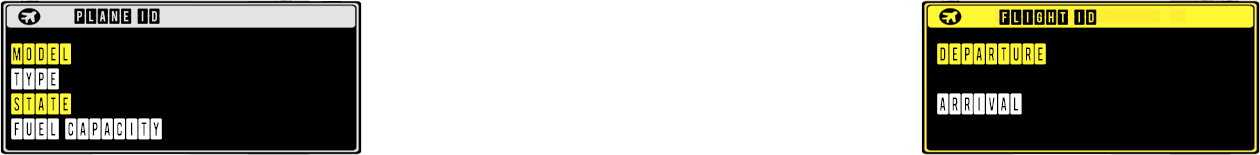
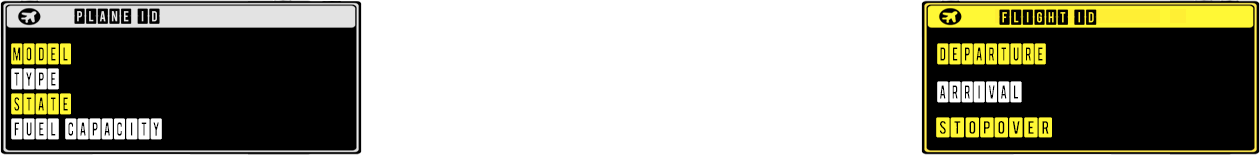
Vol

Changed region(s): [[0.7429, 0.5161, 0.8357, 0.9032]]

diff --git a/src/Airport_network/Aiport_network.cpp b/src/Airport_network/Aiport_network.cpp
@@ -175,16 +175,16 @@ void Aiport_network::init_flight(std::vector<Flight *> &ALl_flight, size_t i, sf
 void
 Aiport_network::Plane_Movement(sf::RenderWindow &window, sf::Sprite &Sprite, bool &enter_manual,
                                std::vector<Flight *> &ALl_flight,
-                               Plane p, Aiport_network a, sf::Font font2) {
+                               Plane p, Aiport_network a, sf::Font &font2, sf::Font &font1) {
     window.setFramerateLimit(60);
 
     sf::Texture Airplane_info;
     Airplane_info.loadFromFile("../Graphic_Content/Map/Info/F.png");
     sf::Sprite Sprite_Airplane_info(Airplane_info);
     Sprite_Airplane_info.setPosition(29, 23);
-    sf::Text text1, text2, text3, text4, text5, text6, text7, text8;
-    init_text(font2, text1, text2, text3, text4, text5,
-              text6, text7, text8);
+    sf::Text text1, text2, text3, text4, text5, text6, text7, text8, text9, text10;
+    init_text(font1, font2, text1, text2, text3, text4, text5,
+              text6, text7, text8, text9, text10);
 
     bool arrive(false), end(false), ok(true), newFlight(false);
     sf::Vector2f (Airport1), (Airport2);
@@ -206,12 +206,18 @@ Aiport_network::Plane_Movement(sf::RenderWindow &window, sf::Sprite &Sprite, boo
     my_Airport[0].push_back(Airport2);
 
     bool fin(false);
-    float vitesse = 0.09f;
     std::vector<float> progression;
+    std::vector<int> compt;
     float time(0.0f), temp(0.0f);
     sf::Clock clock;
     sf::Clock clock2;
-
+    if(ALl_flight[0]->get_airplane()->get_model()=="ATR72-600") {
+        text10.setColor(sf::Color::White);
+    }else if(ALl_flight[0]->get_airplane()->get_model()=="BOEING-777"){
+        text10.setColor(sf::Color::Blue);
+    }else if(ALl_flight[0]->get_airplane()->get_model()=="AIRBUS-A380"){
+        text10.setColor(sf::Color::Yellow);
+    }
     //Left
     text1.setString(std::to_string(ALl_flight[0]->get_airplane()->get_id()));
     text2.setString(ALl_flight[0]->get_airplane()->get_model());
@@ -227,38 +233,48 @@ Aiport_network::Plane_Movement(sf::RenderWindow &window, sf::Sprite &Sprite, boo
     text6.setString(ALl_flight[0]->get_flight_id());
     text7.setString(ALl_flight[0]->get_departure()->get_AirportName());
     text8.setString(ALl_flight[0]->get_arrival()->get_AirportName());
+    text9.setString(std::to_string(flight_plan[0].size() - 2));
 
     progression.push_back(0.0f);
+    compt.push_back(0);
     do {
         for (size_t f(0); f < ALl_flight.size(); f++) {
             progression[f] += clock.getElapsedTime().asSeconds() * (float) ALl_flight[f]->get_airplane()->get_speed();
             clock.restart();
             ALl_flight[f]->get_airplane()->set_plane_x(
-                    Interpolate(my_Airport[f][0], my_Airport[f][1], progression[f]).x);
+                    Interpolate(my_Airport[f][my_Airport[f].size() - 2], my_Airport[f][my_Airport[f].size() - 1],
+                                progression[f]).x);
             ALl_flight[f]->get_airplane()->set_plane_y(
-                    Interpolate(my_Airport[f][0], my_Airport[f][1], progression[f]).y);
+                    Interpolate(my_Airport[f][my_Airport[f].size() - 2], my_Airport[f][my_Airport[f].size() - 1],
+                                progression[f]).y);
             ALl_flight[f]->get_airplane()->set_Coord_plane(ALl_flight[f]->get_airplane()->get_plane_x(),
                                                            ALl_flight[f]->get_airplane()->get_plane_y());
-
+            text10.setPosition(ALl_flight[f]->get_airplane()->get_plane_x()+15,
+                               ALl_flight[f]->get_airplane()->get_plane_y());
+            if(ALl_flight[f]->get_airplane()->get_model()=="ATR72-600") {
+                text10.setColor(sf::Color::White);
+            }else if(ALl_flight[f]->get_airplane()->get_model()=="BOEING-777"){
+                text10.setColor(sf::Color::Blue);
+            }else if(ALl_flight[f]->get_airplane()->get_model()=="AIRBUS-A380"){
+                text10.setColor(sf::Color::Yellow);
+            }
             if ((ALl_flight[f]->get_airplane()->get_plane_x() ==
-                 (float) my_Airport[f][1].x &&
+                 (float) my_Airport[f][my_Airport[f].size() - 1].x &&
                  ALl_flight[f]->get_airplane()->get_plane_y() ==
-                 (float) my_Airport[f][1].y)) {
-
-                std::cout << "Avion" << f << ":" << my_Airport[f][1].x
-                          << ","
-                          << my_Airport[f][1].y << "/"
-                          << ALl_flight[f]->get_airplane()->get_plane_x() << ","
-                          << ALl_flight[f]->get_airplane()->get_plane_y() << std::endl;
+                 (float) my_Airport[f][my_Airport[f].size() - 1].y)) {
+                compt[f]++;
                 flight_plan[f][flight_plan[f].size() - 1]++;
-                if (flight_plan[f][flight_plan[f].size() - 1] < flight_plan[f].size() - 2) {
+                if (flight_plan[f][flight_plan[f].size() - 1] < flight_plan[f].size() - 2 &&
+                    compt[f] != flight_plan[f].size() - 2) {
                     init_flight(ALl_flight, f,
-                                Airport1, Airport2, flight_plan, flight_plan[f][flight_plan.size() - 1], ok);
-
-                    //flight_plan[f][flight_plan.size() - 1]++;
+                                Airport1, Airport2, flight_plan, flight_plan[f][flight_plan[f].size() - 1], ok);
+                    //my_Airport[f].push_back(Airport1);
+                    my_Airport[f].push_back(Airport2);
+                    progression[f] = 0;
 
                 }
-                if (flight_plan[f][flight_plan[f].size() - 1] == flight_plan[f].size() - 2) {
+                if (flight_plan[f][flight_plan[f].size() - 1] == flight_plan[f][flight_plan[f].size() - 2] &&
+                    compt[f] == flight_plan[f].size() - 2) {
                     std::cout << "Arivée\n";
                     arrive = true;
                     ALl_flight[f]->get_airplane()->put_state(false);
@@ -267,6 +283,8 @@ Aiport_network::Plane_Movement(sf::RenderWindow &window, sf::Sprite &Sprite, boo
                     my_Airport.erase(my_Airport.begin() + (int) f);
                     flight_plan.erase(flight_plan.begin() + (int) f);
                     progression.erase(progression.begin() + (int) f);
+                    compt.erase(compt.begin() + (int) f);
+
                     for (size_t b(0); b < p.getListPlane().size(); b++) {
                         if (ALl_flight[f]->get_airplane()->get_id() == p.getListPlane()[b]->get_id()) {
                             p.supElement_ListPlane((int) b);
@@ -274,15 +292,19 @@ Aiport_network::Plane_Movement(sf::RenderWindow &window, sf::Sprite &Sprite, boo
                     }
                 }
             } else {
-                if (my_Airport[f][flight_plan.size() - 1].x >
-                    my_Airport[f][flight_plan.size()].x) {
+                if (my_Airport[f][flight_plan[f].size() - 1].x >
+                    my_Airport[f][flight_plan[f].size()].x) {
                     ALl_flight[f]->get_airplane()->set_Angle(
-                            (float) angle(my_Airport[f][0].x, my_Airport[f][0].y, my_Airport[f][1].x,
-                                          my_Airport[f][1].y) + 180.0f);
+                            (float) angle(my_Airport[f][my_Airport[f].size() - 2].x,
+                                          my_Airport[f][my_Airport[f].size() - 2].y,
+                                          my_Airport[f][my_Airport[f].size() - 1].x,
+                                          my_Airport[f][my_Airport[f].size() - 1].y) + 180.0f);
                 } else {
                     ALl_flight[f]->get_airplane()->set_Angle(
-                            (float) angle(my_Airport[f][0].x, my_Airport[f][0].y, my_Airport[f][1].x,
-                                          my_Airport[f][1].y) + 180.0f);
+                            (float) angle(my_Airport[f][my_Airport[f].size() - 2].x,
+                                          my_Airport[f][my_Airport[f].size() - 2].y,
+                                          my_Airport[f][my_Airport[f].size() - 1].x,
+                                          my_Airport[f][my_Airport[f].size() - 1].y) + 180.0f);
                 }
                 window.clear();
                 window.draw(Sprite);
@@ -290,11 +312,11 @@ Aiport_network::Plane_Movement(sf::RenderWindow &window, sf::Sprite &Sprite, boo
                 arrive = false;
             }
             time = clock2.getElapsedTime().asSeconds();
-            if (time >= 4) {
+            if (time >= MAX_WAITING_TIME_TO_CREATE) {
                 //newFlight=true;
                 ok = true;
                 j = 0;
-                if (oldF.size() > 5) {
+                if (oldF.size() > MAX_OLD_F) {
                     for (auto &c: oldF) {
                         p.addElement_ListPlane(c->get_airplane());
                     }
@@ -311,23 +333,24 @@ Aiport_network::Plane_Movement(sf::RenderWindow &window, sf::Sprite &Sprite, boo
                 my_Airport[ALl_flight.size() - 1].push_back(Airport1);
                 my_Airport[ALl_flight.size() - 1].push_back(Airport2);
                 progression.push_back(0.0f);
+                compt.push_back(0);
                 clock2.restart();
                 //Left
-                text1.setString(std::to_string(ALl_flight[f]->get_airplane()->get_id()));
-                text2.setString(ALl_flight[f]->get_airplane()->get_model());
-                text3.setString(ALl_flight[f]->get_airplane()->get_type());
-                if (ALl_flight[f]->get_airplane()->get_state()) {
+                text1.setString(std::to_string(ALl_flight[f+1]->get_airplane()->get_id()));
+                text2.setString(ALl_flight[f+1]->get_airplane()->get_model());
+                text3.setString(ALl_flight[f+1]->get_airplane()->get_type());
+                if (ALl_flight[f+1]->get_airplane()->get_state()) {
                     text4.setString("ACTIF");
                 } else {
                     text4.setString("NON ACTIF");
                 }
-                text5.setString(std::to_string((int) ALl_flight[f]->get_airplane()->get_fuel_capacity()));
+                text5.setString(std::to_string((int) ALl_flight[f+1]->get_airplane()->get_fuel_capacity()));
 
                 //Right
-                text6.setString(ALl_flight[f]->get_flight_id());
-                text7.setString(ALl_flight[f]->get_departure()->get_AirportName());
-                text8.setString(ALl_flight[f]->get_arrival()->get_AirportName());
-
+                text6.setString(ALl_flight[f+1]->get_flight_id());
+                text7.setString(ALl_flight[f+1]->get_departure()->get_AirportName());
+                text8.setString(ALl_flight[f+1]->get_arrival()->get_AirportName());
+                text9.setString(std::to_string(flight_plan[f+1].size() - 2));
             }
             time = clock2.getElapsedTime().asSeconds();
             if (time < 2.5) {
@@ -338,8 +361,9 @@ Aiport_network::Plane_Movement(sf::RenderWindow &window, sf::Sprite &Sprite, boo
                     window.draw(z->get_airplane()->get_Sprite());
                 }
                 draw_text(window, text1, text2, text3, text4, text5,
-                          text6, text7, text8);
-
+                          text6, text7, text8, text9);
+                text10.setString(ALl_flight[f]->get_flight_id());
+                window.draw(text10);
                 window.display();
             } else {
                 window.clear();
@@ -347,6 +371,8 @@ Aiport_network::Plane_Movement(sf::RenderWindow &window, sf::Sprite &Sprite, boo
                 for (auto &z: ALl_flight) {
                     window.draw(z->get_airplane()->get_Sprite());
                 }
+                text10.setString(ALl_flight[f]->get_flight_id());
+                window.draw(text10);
                 window.display();
             }
             //newFlight=false;
@@ -383,8 +409,8 @@ double angle(float airport1X, float airport1Y, float airport2X, float airport2Y)
     }
 }
 
-void init_text(sf::Font &font2, sf::Text &text1, sf::Text &text2, sf::Text &text3, sf::Text &text4, sf::Text &text5,
-               sf::Text &text6, sf::Text &text7, sf::Text &text8) {
+void init_text(sf::Font &font1, sf::Font &font2, sf::Text &text1, sf::Text &text2, sf::Text &text3, sf::Text &text4, sf::Text &text5,
+               sf::Text &text6, sf::Text &text7, sf::Text &text8, sf::Text &text9, sf::Text &text10) {
     //Info plane (Coté gauche)
 
     //ID Plane
@@ -436,14 +462,24 @@ void init_text(sf::Font &font2, sf::Text &text1, sf::Text &text2, sf::Text &text
     text8.setFont(font2);
     text8.setCharacterSize(SIZE);
     text8.setColor(sf::Color::White);
-    text8.setPosition(RIGHT_X, 110);
+    text8.setPosition(RIGHT_X, 98);
+
+    //Escale
+    text9.setFont(font2);
+    text9.setCharacterSize(SIZE);
+    text9.setColor(sf::Color::Yellow);
+    text9.setPosition(RIGHT_X + 20, 134);
+
+    //Escale
+    text10.setFont(font1);
+    text10.setCharacterSize(7);
 
 
 }
 
 void
 draw_text(sf::RenderWindow &window, sf::Text &text1, sf::Text &text2, sf::Text &text3, sf::Text &text4, sf::Text &text5,
-          sf::Text &text6, sf::Text &text7, sf::Text &text8) {
+          sf::Text &text6, sf::Text &text7, sf::Text &text8, sf::Text &text9) {
     window.draw(text1);
     window.draw(text2);
     window.draw(text3);
@@ -452,6 +488,7 @@ draw_text(sf::RenderWindow &window, sf::Text &text1, sf::Text &text2, sf::Text &
     window.draw(text6);
     window.draw(text7);
     window.draw(text8);
+    window.draw(text9);
 }
 
 //VERIFICATION DE LA VIABILITE DE L'AEROPORT QUI SE TROUVE A UNE DISTANCE MINIMALE

diff --git a/src/Airport_network/Aiport_network.h b/src/Airport_network/Aiport_network.h
@@ -11,6 +11,9 @@
 #define LEFT_X 200
 #define RIGHT_X 1080
 #define SIZE 26
+#define MAX_OLD_F 5
+#define MAX_WAITING_TIME_TO_CREATE 20
+
 class Connexion;
 
 class Airport;
@@ -45,7 +48,7 @@ public:
                      bool &ok);
 
     void Plane_Movement(sf::RenderWindow &window, sf::Sprite &Sprite, bool &enter_manual, std::vector<Flight *> &ALl_flight,
-                   Plane p, Aiport_network a, sf::Font font2);
+                   Plane p, Aiport_network a, sf::Font &font2, sf::Font &font1);
 
 };
 
@@ -53,9 +56,9 @@ sf::Vector2f (Interpolate(const sf::Vector2f (&pointA), const sf::Vector2f (&poi
 
 double angle(float airport1X, float airport1Y, float airport2X, float airport2Y);
 
-void init_text(sf::Font &font2, sf::Text &text1, sf::Text &text2, sf::Text &text3, sf::Text &text4, sf::Text &text5,
-               sf::Text &text6, sf::Text &text7, sf::Text &text8 );
+void init_text(sf::Font &font1, sf::Font &font2, sf::Text &text1, sf::Text &text2, sf::Text &text3, sf::Text &text4, sf::Text &text5,
+               sf::Text &text6, sf::Text &text7, sf::Text &text8, sf::Text &text9, sf::Text &text10 );
 
 void draw_text(sf::RenderWindow &window, sf::Text &text1, sf::Text &text2, sf::Text &text3, sf::Text &text4, sf::Text &text5,
-          sf::Text &text6, sf::Text &text7, sf::Text &text8);
+          sf::Text &text6, sf::Text &text7, sf::Text &text8, sf::Text &text9);
 #endif //CONTROLEAERIEN_GROUPE_1_B_AIPORT_NETWORK_H

diff --git a/src/Flight/Flight.cpp b/src/Flight/Flight.cpp
@@ -400,7 +400,7 @@ std::vector<int> Flight::PCC() {
                 couleurs[s] = 1;
                 nbMarques++;
                 choix = true;
-                //chemin_suivi.push_back(s);// push back dans le vecteur du chemin
+                chemin_suivi.push_back(s);// push back dans le vecteur du chemin
 
                 //arrive_a_destination = true;
 
@@ -424,6 +424,6 @@ std::vector<int> Flight::PCC() {
     } while (nbMarques < m_list_of_airport.size());
 
     //RECUPERATION DU CHEMIN JUSQU'A L'AEROPORT D'ARRIVE
-
+    chemin_suivi.erase(chemin_suivi.begin());
     return chemin_suivi;
 }

diff --git a/main.cpp b/main.cpp
@@ -43,7 +43,7 @@ int main() {
 
                     while (window.pollEvent(event)) {
 
-                        a.Plane_Movement(window, Sprite, enter_manual, ALl_flight,  p,  a, font2);
+                        a.Plane_Movement(window, Sprite, enter_manual, ALl_flight,  p,  a, font2, font);
                         //show_airport_on_screen(event, window, Sprite, a, font, font2, ALl_flight, enter_manual, p);
                         if (event.type == sf::Event::Closed ||
                             (event.type == sf::Event::KeyPressed && event.key.code == sf::Keyboard::Escape)) {

diff --git a/src/Plane/Plane.cpp b/src/Plane/Plane.cpp
@@ -11,7 +11,7 @@ Plane::Plane(std::string FichierPlane) {
     std::string ligne;
     while (std::getline(ifs, ligne)) {
        // std::srand(std::time(nullptr));
-        int number = rand() % 10 + 1;
+        int number = rand() % MAX_PLANE + 1;
         std::stringstream ss;
         size_t posit = ligne.find(" ");
         std::string nmodel = ligne.substr(0, posit);

diff --git a/src/Plane/Plane.h b/src/Plane/Plane.h
@@ -4,7 +4,9 @@
 #include <fstream>
 #include <queue>
 #include <sstream>
+#define MAX_PLANE 10
 class Airplane;
+
 class Plane {
 private:
     std::vector<Airplane*> m_airplane;
